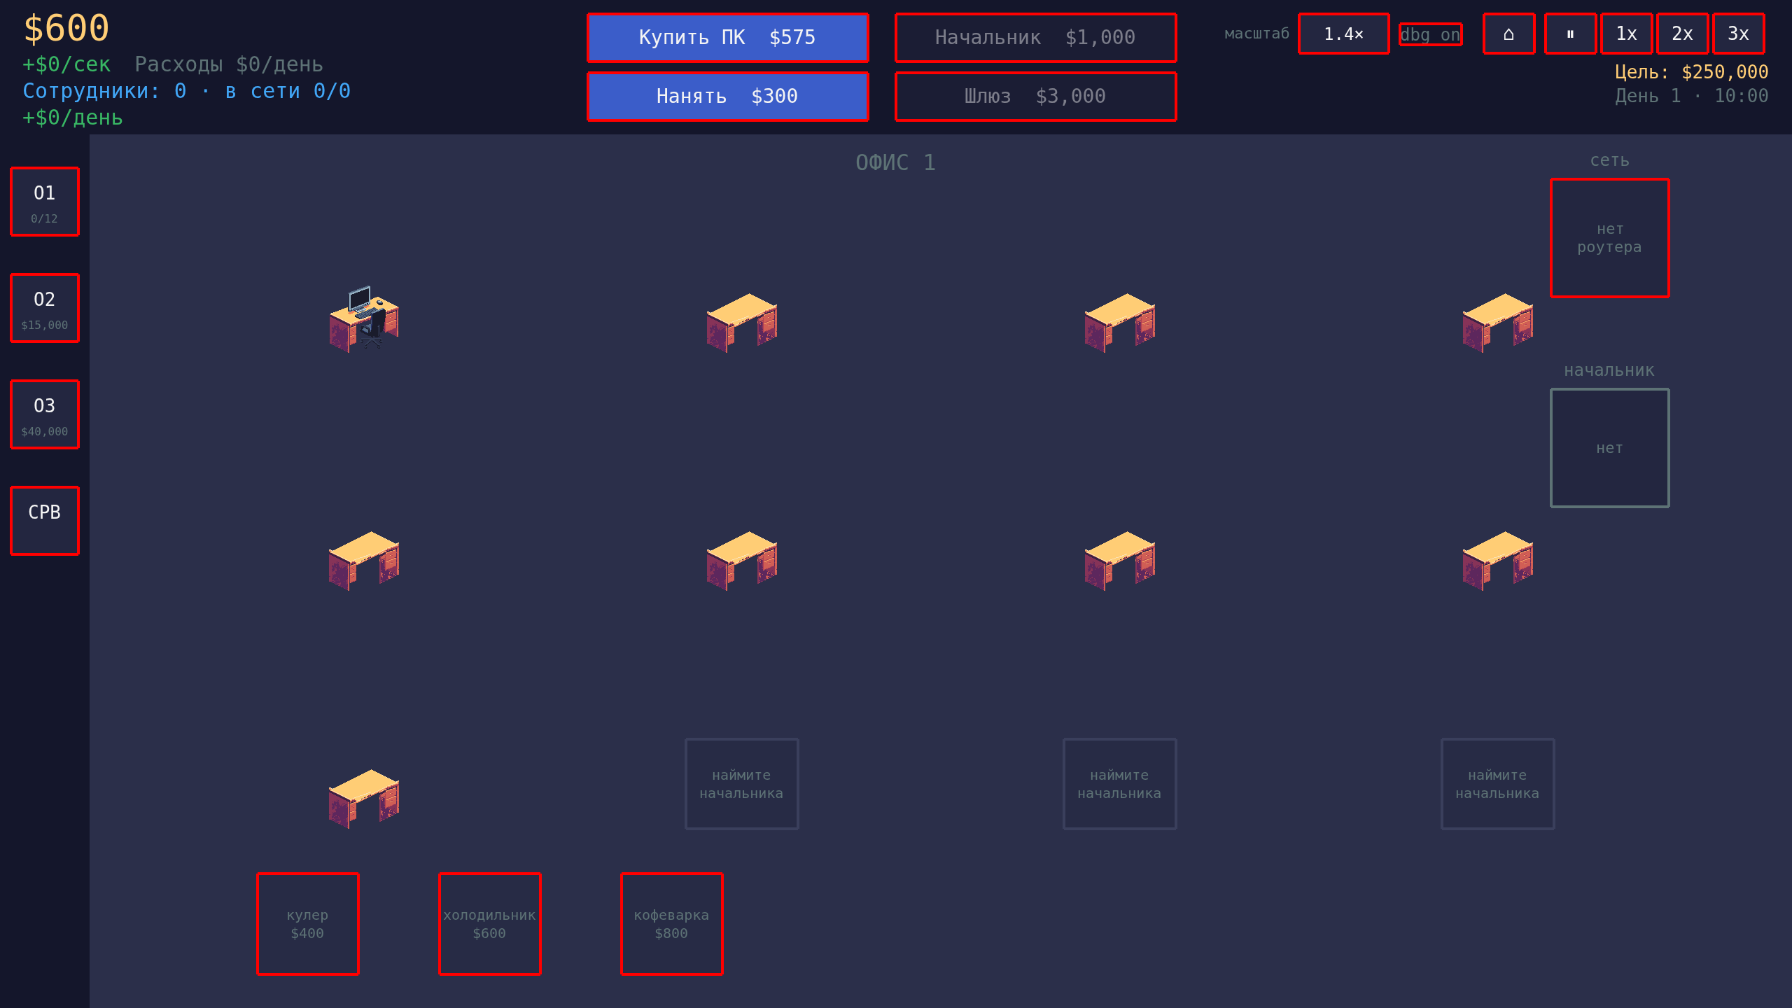
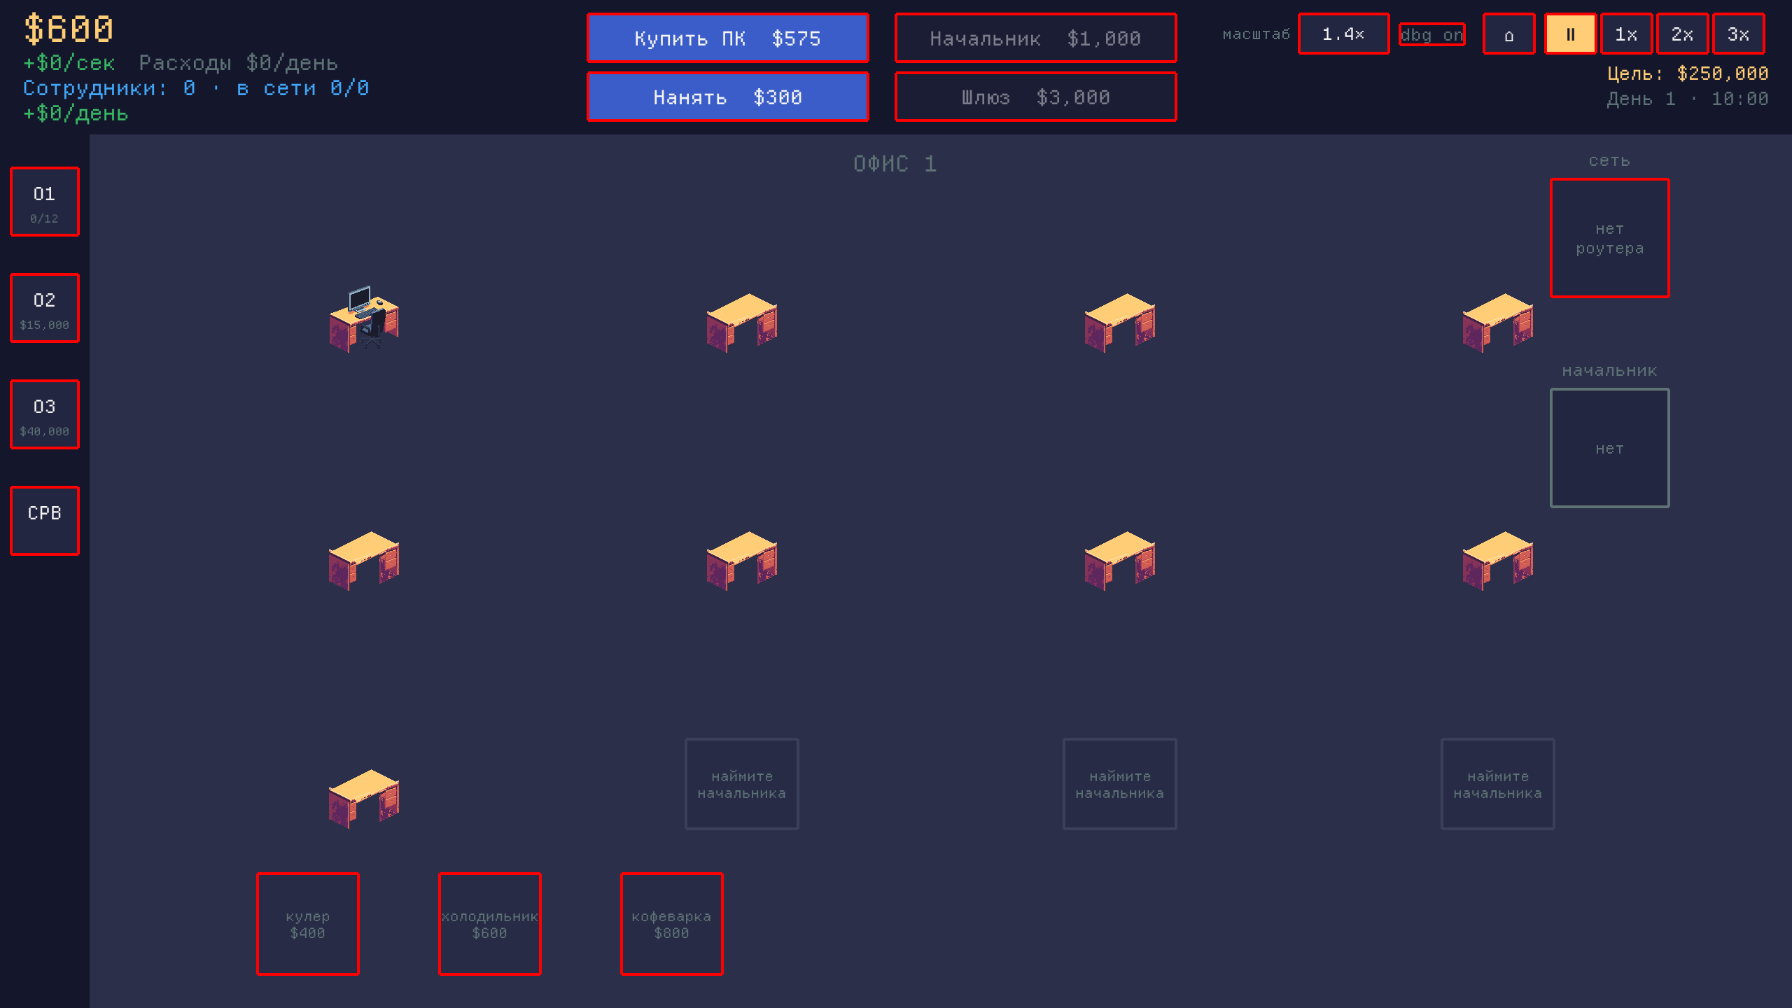
test(visreg): baselines regenerated on the pinned Chrome with the game font, broken_pc added — ITGAME-48: 0 px two runs in a row
The old baselines (2026-09-26, Chromium 1194 in a cloud container, system
monospace) drifted 0.8–1.4% on 6 of 8 scenarios on the pinned Chrome 152;
the drift came from the font. With Departure Mono + ITD Symbols in the
game they are regenerated on purpose.

- npm run visreg -- --update on Chrome for Testing 152.0.7977.54 (headless,
  SwiftShader software GL, Arch Linux, Noto Color Emoji for the emoji that
  stay system), 9 scenarios.
- visreg.mjs: broken_pc (ITGAME-74 fixture) joins SCENARIOS (owner 10.10).
- baseline.json: lint counts of the 8 old scenarios unchanged
  (overlaps/offscreen 0 everywhere); broken_pc: overlaps 0, offscreen 0,
  contrast 15, tiny 15 (the same as fresh-like offices).
- docs/development.md: the baselines paragraph — date, browser build,
  rasteriser, font, emoji caveat.

Gates: visreg ×2 without --update — 9/9 scenarios, 0 differing pixels
each, both runs; make typecheck ok, npm run build ok

diff --git a/docs/development.md b/docs/development.md
@@ -666,17 +666,18 @@ plus offscreen/contrast/tiny), which must not be worse than
 `baseline.json`. Update baselines after intended UI changes: `npm run
 visreg -- --update`, then commit.
 
-Baselines are machine-dependent (system `monospace` font, GPU rasterizer):
-the committed baseline was last regenerated **2026-09-26** on a Claude Code
-cloud-session container (headless Chromium 1194, SwiftShader software GL)
-— expect diffs when running visreg on a different machine or GPU driver.
-The browser is now pinned (see **Browser** above; `visreg` logs the binary
-it uses), but the baselines predate the pin and will be regenerated on it
-together with the game's own font (ITGAME-48). Until then visreg reports
-diffs: on 2026-10-10 (Arch Linux, fontconfig `monospace` = Noto Sans Mono)
-6 of 8 scenarios were at 0.82–1.39%, with identical diff pixel counts on the pinned
-Chrome 152 and on the system Chromium 153 — the drift comes from the font,
-not the browser version.
+Baselines depend on the browser build and the rasterizer, no longer on the
+system font: the game draws all text with its own fonts (ITGAME-48) —
+Departure Mono 1.500 plus ITD Symbols, an 8-glyph OFL subset of Unifont for
+⌂⏸▶☣✓✕✖✗ (files and licenses in `client/public/assets/fonts`, the stack is
+`FONT` in `client/src/render.ts`, `BootScene` waits for both before the
+menu). Emoji (achievement icons, 🏆📊🔒⚠) still come from the system emoji
+font. The committed baseline (9 scenarios, `broken_pc` included) was
+regenerated **2026-10-10** on the pinned Chrome for Testing 152.0.7977.54
+(headless, SwiftShader software GL, Arch Linux, Noto Color Emoji); two
+consecutive runs without `--update` gave 0 differing pixels on every scenario.
+The layout-linter counts in `baseline.json` did not change with the font.
+Another machine may still differ by GPU rasterizer or emoji font.
 Kill stray Chromium processes before a run — they starve software WebGL.
 In CI, visreg is a report, not a gate (see [CI](#ci)).
 
